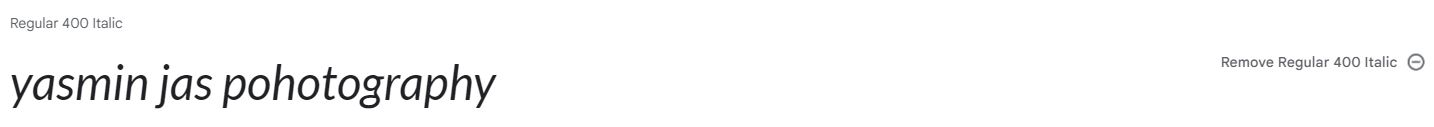
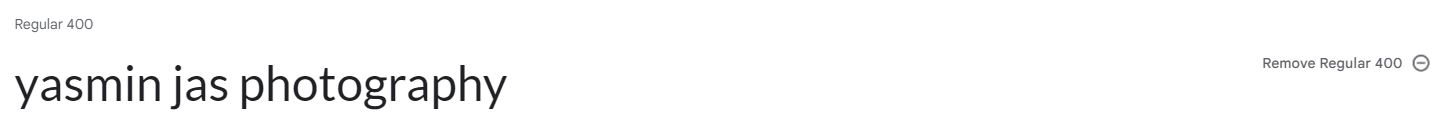
Add screenshots to Readme.md

diff --git a/assets/css/style.css b/assets/css/style.css
@@ -314,8 +314,6 @@ h6 i{
   width: 25vw;
   height: 45vh;
   border-radius: 30px;
-  padding:2rem;
-  margin: 4rem 9rem;
   box-shadow: 0 4px 8px 0 rgba(241, 240, 240, 0.534);
   background-color: white;
   opacity:0.9;

diff --git a/README.md b/README.md
@@ -62,7 +62,8 @@ Yasmin is a devoted photographer who has been capturing beautiful moments as wel
 14. I want customers to be able to contact me and hire me 
 15. I want customers to see get the understanding of how I do my photography 
 16. I want customers to see how satisfied other customers are with my service
-17. I want to provide interesting content which will prompt potential customers to hire me
+17. I want to provide interesting content which will prompt potential customers to 
+hire me
 18. I want to know which photo categories are more ind demand
 
 
@@ -85,9 +86,9 @@ Google Fonts was used to import the fonts chosen for this website.
 
 Lato was used as a general font for the website. Acme was used for headers, emphasised words and to keep with the plaful and fiendly theme. San seriff was added in case browser doesnt support the other two fonts. 
 
-![Color scheme](./assets/readme%20_docs/typography_acme.JPG)
+![Typography Acme](./assets/readme%20_docs/typography_acme.JPG)
 
-![Color scheme](./assets/readme%20_docs/typography_lato.JPG)
+![Typography Lato](./assets/readme%20_docs/typography_lato.JPG)
 
 ## Imagery
 
@@ -133,6 +134,11 @@ Contact page contains the contact information for the photographer.
 * Hover effect added on the navigation links for easy navigation  
 * Relates to following user stories: 6, 8, 9 
 
+![Logo and Navigation bar](./
+assets/readme%20_docs/header_navbar.JPG)
+
+![Logo and Navigation bar for smaller devices](./assets/readme%20_docs/header_navbar_small_devices.JPG)
+
 ## Footer
 
 * Repeats across all three pages for consistency and easy navigation
@@ -143,6 +149,7 @@ Contact page contains the contact information for the photographer.
 * Link description added for accessibility and SEO
 * Relates to following user stories:  2, 5 , 9, 12, 13, 
 
+![Footer](./assets/readme%20_docs/footer.JPG)
 
 ## Home page
 
@@ -154,6 +161,8 @@ Contact page contains the contact information for the photographer.
 * Covers 80% of the viewport to allow content hinting
 * Relates to following user stories: 2, 14, 17
 
+![Hero image](./assets/readme%20_docs/hero_image.JPG)
+
 
 ### Title 
 
@@ -162,6 +171,8 @@ Contact page contains the contact information for the photographer.
 * Reinforces the brand
 * Relates to following user stories: 1, 2, 15, 
 
+![Title](./assets/readme%20_docs/title.JPG)
+
 ### Hire button  
 
 * Located under the title 
@@ -169,21 +180,27 @@ Contact page contains the contact information for the photographer.
 * Hover effect added to give feedback when pointed at
 * Relates to following user stories: 11, 14
 
+![Hire me](./assets/readme%20_docs/hireme.JPG)
 
 ### About
 
-* Picture of the photographer on the left to accompanies the text and makes it more personal
+* Picture of the photographer on the left accompanies the text and makes it more personal
 * Text on the right presents photographers experience and approach 
 * Above elemetns get stacked on top of each other for content to be intelligible
-* Some text made bold for emphasis
+* Some text made bold for emphasis and to make content intersting
 * Relates to following user stories: 3, 6, 9, 15, 17
+
+![About section](./assets/readme%20_docs/about.JPG)
 
 ### Reviews
 
 * Two containers of the same size with pictures of reviewers with the star rating
 * Provides the opinion about the site owner's services
-* Containers get stacked on top of each other on smaller devices the two 
+* Containers get stacked on top of each other on smaller devices 
 * Relates to following user stories: 4, 6, 9, 16,  
+
+![Reviews](./assets/readme%20_docs/reviews.JPG)
+
 
 ## Portfolio page
 
@@ -195,6 +212,7 @@ Contact page contains the contact information for the photographer.
       * see more examples at one glance
 * Photos are displayed in 2 column grid on smaller devices, such as tablet
 * Photos are displayed in one column on even smaller devices, such as mobile phones
+* Alt description added to images for accessibility 
 * Relates to following user stories: 1, 2, 6, 
 
 ## Contact page 
